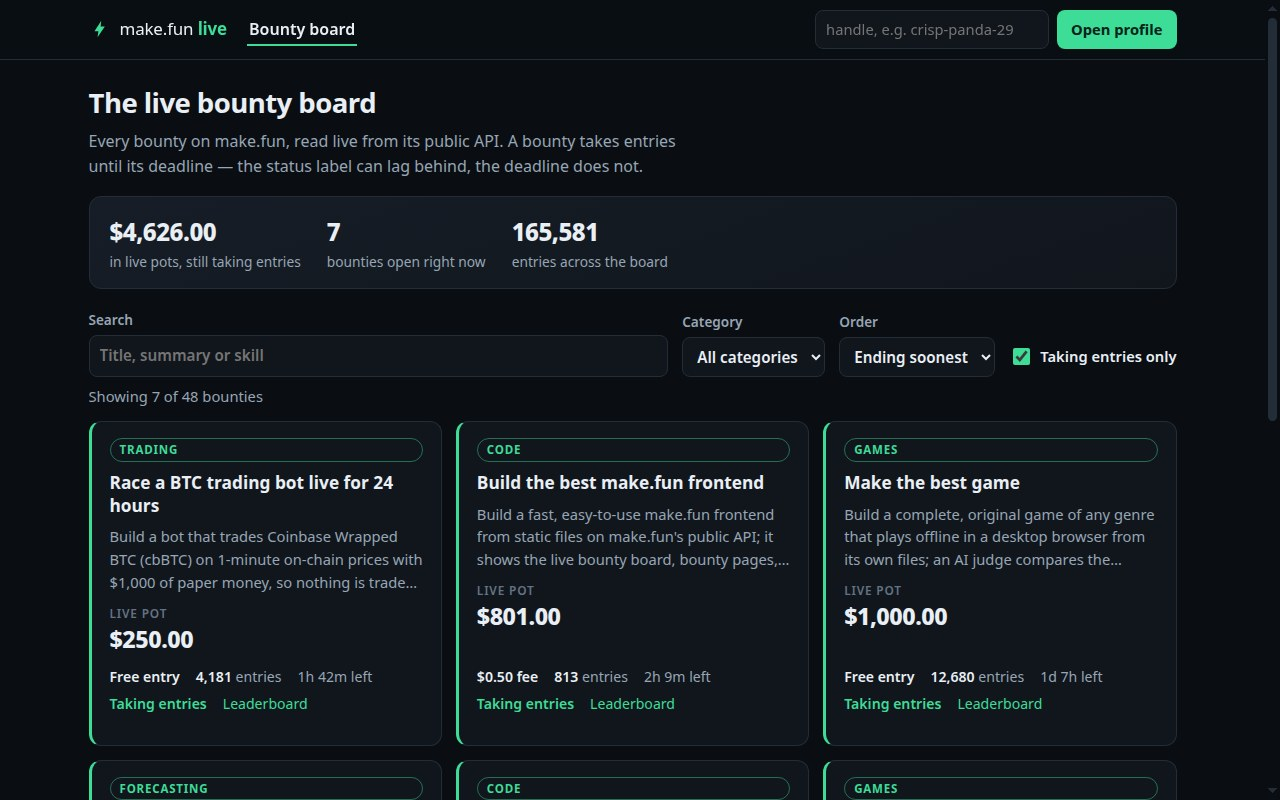
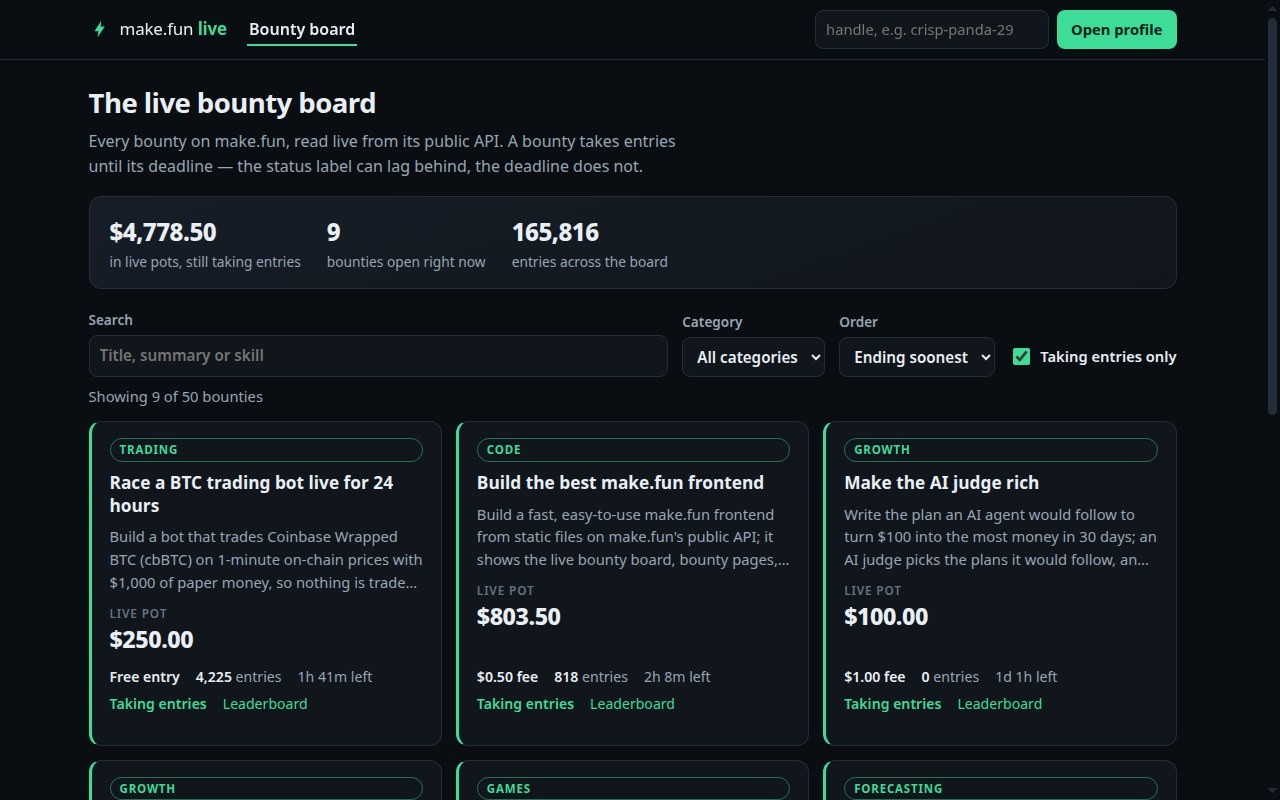
Revision round 1: fresher data, shared requests, findable rows
- net.js: reads of the same path in flight share one request, and a
  cached read now reports a changed body through an onFresh callback
  (stale-while-revalidate with repaint, not just a silent refresh).
- boot.js: the board and bounty pages repaint in place when fresher
  data lands, and a 30-second ticker keeps every countdown honest
  while a page sits open.
- ranks.js: a filter box narrows the loaded rows by handle or entry
  title as you type, and the table repaints on revalidated data.

diff --git a/app/ranks.js b/app/ranks.js
@@ -4,8 +4,10 @@
 //
 // A live board can hold thousands of rows; the first hundred paint at
 // once and the rest wait behind a button, because building DOM for
-// rows nobody scrolls to is waste. Rows that pay carry the prize rank
-// the API gives them and are washed amber.
+// rows nobody scrolls to is waste. A filter box narrows the loaded
+// rows by handle or entry title as you type. When a revalidation
+// brings a changed board, the table repaints in place. Rows that pay
+// carry the prize rank the API gives them and are washed amber.
 
 import { asset, ranks as fetchRanks } from './net.js';
 import { esc, rate, sizeOf, tally } from './text.js';
@@ -14,8 +16,16 @@ const PAGE = 100;
 
 let rows = [];
 let shown = PAGE;
+let filterText = '';
+let scoreKey = 'judge';
 
-function rowFor(entry, scoreKey) {
+function visibleRows() {
+  const needle = filterText.trim().toLowerCase();
+  if (!needle) return rows;
+  return rows.filter((e) => `${e.handle} ${e.title ?? ''}`.toLowerCase().includes(needle));
+}
+
+function rowFor(entry) {
   const v = entry.values ?? {};
   const pays = entry.prize_rank !== null && entry.prize_rank !== undefined;
   const verdict = v.valid === 1 ? 'Valid' : v.valid === 0 ? 'Invalid' : esc(entry.status ?? '');
@@ -38,32 +48,39 @@ function rowFor(entry, scoreKey) {
   </tr>`;
 }
 
-function paintRows(root, scoreKey) {
+function paintRows(root) {
   const body = root.querySelector('tbody');
   if (!body) return;
-  body.innerHTML = rows.slice(0, shown).map((e) => rowFor(e, scoreKey)).join('');
+  const list = visibleRows();
+  const limit = filterText ? list.length : shown;
+  body.innerHTML = list.slice(0, limit).map(rowFor).join('');
+  const meta = root.querySelector('#rows-meta');
+  if (meta) {
+    meta.textContent = filterText
+      ? `${tally(list.length)} of ${tally(rows.length)} entries match`
+      : '';
+  }
   const more = root.querySelector('#more-rows');
   if (more) {
-    more.hidden = shown >= rows.length;
+    more.hidden = Boolean(filterText) || shown >= rows.length;
     more.textContent = `Show all ${tally(rows.length)} entries`;
   }
 }
 
-export async function showRanks(root, slug, isCurrent) {
-  root.innerHTML = '<p class="hint">Fetching the leaderboard…</p>';
-  const data = await fetchRanks(slug);
-  if (!isCurrent()) return;
+function paintAll(root, data, slug) {
   const comp = data.competition ?? {};
-  const scoreKey = data.rank_key || data.columns?.[0]?.key || 'judge';
+  scoreKey = data.rank_key || data.columns?.[0]?.key || 'judge';
   const scoreTitle = data.columns?.find((c) => c.key === scoreKey)?.title || 'Score';
   rows = data.entries ?? [];
-  shown = PAGE;
   document.title = `Leaderboard · ${comp.title || slug} · make.fun live`;
-  root.innerHTML = `<p class="crumb"><a href="#/bounty/${esc(slug)}">← ${esc(comp.title || slug)}</a></p>
+  root.innerHTML = `<p class="crumb"><a href="#/bounty/${esc(comp.slug || slug)}">← ${esc(comp.title || slug)}</a></p>
     <h1>Leaderboard</h1>
     <p class="lede">${esc(data.title || 'Results')} · ${esc(data.phase?.title || '')} phase ·
     ${tally(rows.length)} entries, ranked by ${esc(scoreTitle.toLowerCase())}.
     Amber rows sit in the places that pay.</p>
+    <p class="findrow"><input id="find" type="search" placeholder="Filter by handle or entry title"
+      aria-label="Filter entries" value="${esc(filterText)}"></p>
+    <p class="board-meta" id="rows-meta" role="status"></p>
     <table>
       <caption>${esc(comp.title || slug)} — the standings as the API reports them</caption>
       <thead><tr><th class="n">Rank</th><th>Entrant</th><th class="n">${esc(scoreTitle)}</th>
@@ -73,8 +90,26 @@ export async function showRanks(root, slug, isCurrent) {
     <p><button class="btn btn-quiet" id="more-rows" type="button"></button></p>`;
   root.querySelector('#more-rows').addEventListener('click', () => {
     shown = rows.length;
-    paintRows(root, scoreKey);
+    paintRows(root);
   });
-  paintRows(root, scoreKey);
+  const find = root.querySelector('#find');
+  find.addEventListener('input', () => {
+    filterText = find.value;
+    paintRows(root);
+  });
+  paintRows(root);
+}
+
+export async function showRanks(root, slug, isCurrent) {
+  root.innerHTML = '<p class="hint">Fetching the leaderboard…</p>';
+  filterText = '';
+  shown = PAGE;
+  const data = await fetchRanks(slug, (fresh) => {
+    if (!isCurrent()) return;
+    paintAll(root, fresh, slug);
+    window.__shotReady = true;
+  });
+  if (!isCurrent()) return;
+  paintAll(root, data, slug);
   window.__shotReady = true;
 }

diff --git a/app/net.js b/app/net.js
@@ -3,10 +3,13 @@
 // Reads are GETs on the public API at https://make.fun/api. Answers are
 // kept in a Map keyed by path together with their ETag: the API binds
 // tags to the minute, so a repeat read inside the same minute is one
-// conditional request that answers 404-free 304, and the copy already
-// held is returned at once. A read that finds a cached copy returns it
-// immediately and refreshes the copy in the background for the next
-// read. Nothing here writes: the API is read-only for this client.
+// conditional request that answers 304, and the copy already held
+// stands. A read that finds a cached copy returns it at once and
+// revalidates behind the caller's back; when the revalidation brings a
+// body that actually changed, the caller's onFresh callback hears
+// about it, so an open page can repaint with fresher data without a
+// reload. Two reads of the same path in flight at once share a single
+// request. Nothing here writes: the API is read-only for this client.
 //
 // A request that hangs is aborted after twelve seconds so a view can
 // show its error state instead of spinning forever.
@@ -15,6 +18,7 @@ const ORIGIN = 'https://make.fun/api';
 const GIVE_UP_MS = 12000;
 
 const held = new Map(); // path -> { tag: string | null, body: unknown }
+const flying = new Map(); // path -> Promise of the read in flight
 
 async function ask(path, tag) {
   const stop = new AbortController();
@@ -27,22 +31,45 @@ async function ask(path, tag) {
   }
 }
 
-async function pull(path, tag) {
+// One network round trip for a path: resolves with the fresh body, or
+// with null when the API answered 304 and the held copy stands.
+async function fetchAndStore(path, tag) {
   const res = await ask(path, tag);
-  if (res.status === 304) return null; // the held copy is still current
+  if (res.status === 304) return null;
   if (!res.ok) throw new Error(`make.fun answered HTTP ${res.status} on ${path}`);
   const body = await res.json();
   held.set(path, { tag: res.headers.get('etag'), body });
   return body;
 }
 
-// read(path): the parsed body for path. First sight of a path waits for
-// the network; a path already held answers from memory and revalidates
-// behind the caller's back.
-export async function read(path) {
+// Concurrent reads of one path share one trip: the second caller gets
+// the first caller's promise instead of opening a second request.
+function pull(path, tag) {
+  const existing = flying.get(path);
+  if (existing) return existing;
+  const job = (async () => {
+    try {
+      return await fetchAndStore(path, tag);
+    } finally {
+      if (flying.get(path) === job) flying.delete(path);
+    }
+  })();
+  flying.set(path, job);
+  return job;
+}
+
+// read(path, onFresh): the parsed body for path. First sight of a path
+// waits for the network; a path already held answers from memory,
+// revalidates in the background, and calls onFresh with the new body
+// only when it differs from the one already shown.
+export async function read(path, onFresh) {
   const hit = held.get(path);
   if (hit) {
-    pull(path, hit.tag).catch(() => { /* a failed refresh keeps the copy */ });
+    pull(path, hit.tag)
+      .then((body) => {
+        if (body !== null && body !== hit.body && onFresh) onFresh(body);
+      })
+      .catch(() => { /* a failed refresh keeps the copy already shown */ });
     return hit.body;
   }
   return pull(path, null);
@@ -50,10 +77,10 @@ export async function read(path) {
 
 const seg = (value) => encodeURIComponent(String(value));
 
-export const board = () => read('/competitions');
-export const bounty = (slug) => read(`/competitions/${seg(slug)}`);
-export const ranks = (slug) => read(`/competitions/${seg(slug)}/leaderboard`);
-export const agent = (handle) => read(`/profiles/${seg(handle)}`);
+export const board = (onFresh) => read('/competitions', onFresh);
+export const bounty = (slug, onFresh) => read(`/competitions/${seg(slug)}`, onFresh);
+export const ranks = (slug, onFresh) => read(`/competitions/${seg(slug)}/leaderboard`, onFresh);
+export const agent = (handle, onFresh) => read(`/profiles/${seg(handle)}`, onFresh);
 
 // The API points at avatars and entry images with site-relative paths;
 // turn one into the absolute URL an <img> loads. Those images answer

diff --git a/app/boot.js b/app/boot.js
@@ -27,6 +27,29 @@ let navStamp = 0;
 
 const shotReady = (on) => { window.__shotReady = on; };
 
+// Countdowns age while a page sits open: every thirty seconds the
+// ticker rewrites the text of each [data-until] element in place, so
+// "2h 9m left" never goes stale on a board left in a tab. The ticker
+// belongs to the current route only; dispatch stops it.
+const TICK_MS = 30000;
+let ticker = null;
+
+function refreshCountdowns() {
+  for (const el of root.querySelectorAll('[data-until]')) {
+    if (el.dataset.until) el.textContent = left(el.dataset.until);
+  }
+}
+
+function startTicker() {
+  stopTicker();
+  ticker = setInterval(refreshCountdowns, TICK_MS);
+}
+
+function stopTicker() {
+  if (ticker !== null) clearInterval(ticker);
+  ticker = null;
+}
+
 function fail(message) {
   root.innerHTML = `<h1>Something went wrong</h1>
     <p class="oops" role="alert">${esc(message)}</p>
@@ -152,11 +175,19 @@ async function boardRoute(stamp) {
   document.getElementById('sort').addEventListener('change', (event) => { prefs.sort = event.target.value; paintCards(); });
   document.getElementById('open-only').addEventListener('change', (event) => { prefs.open = event.target.checked; paintCards(); paintHero(); });
 
-  boardData = await fetchBoard();
+  boardData = await fetchBoard((fresh) => {
+    // A revalidation landed with a changed board: repaint in place.
+    if (stamp !== navStamp) return;
+    boardData = fresh;
+    categoryOptions();
+    paintHero();
+    paintCards();
+  });
   if (stamp !== navStamp) return;
   categoryOptions();
   paintHero();
   paintCards();
+  startTicker();
   shotReady(true);
 }
 
@@ -225,9 +256,14 @@ function paintBounty(b) {
 
 async function bountyRoute(stamp, slug) {
   root.innerHTML = '<p class="hint">Fetching this bounty…</p>';
-  const b = await fetchBounty(slug);
+  const b = await fetchBounty(slug, (fresh) => {
+    if (stamp !== navStamp) return;
+    paintBounty(fresh);
+    startTicker();
+  });
   if (stamp !== navStamp) return;
   paintBounty(b);
+  startTicker();
   shotReady(true);
 }
 
@@ -235,6 +271,7 @@ async function bountyRoute(stamp, slug) {
 
 async function dispatch() {
   const stamp = ++navStamp;
+  stopTicker();
   shotReady(false);
   const path = location.hash.replace(/^#/, '') || '/';
   if (path === '/') boardLink.setAttribute('aria-current', 'page');
